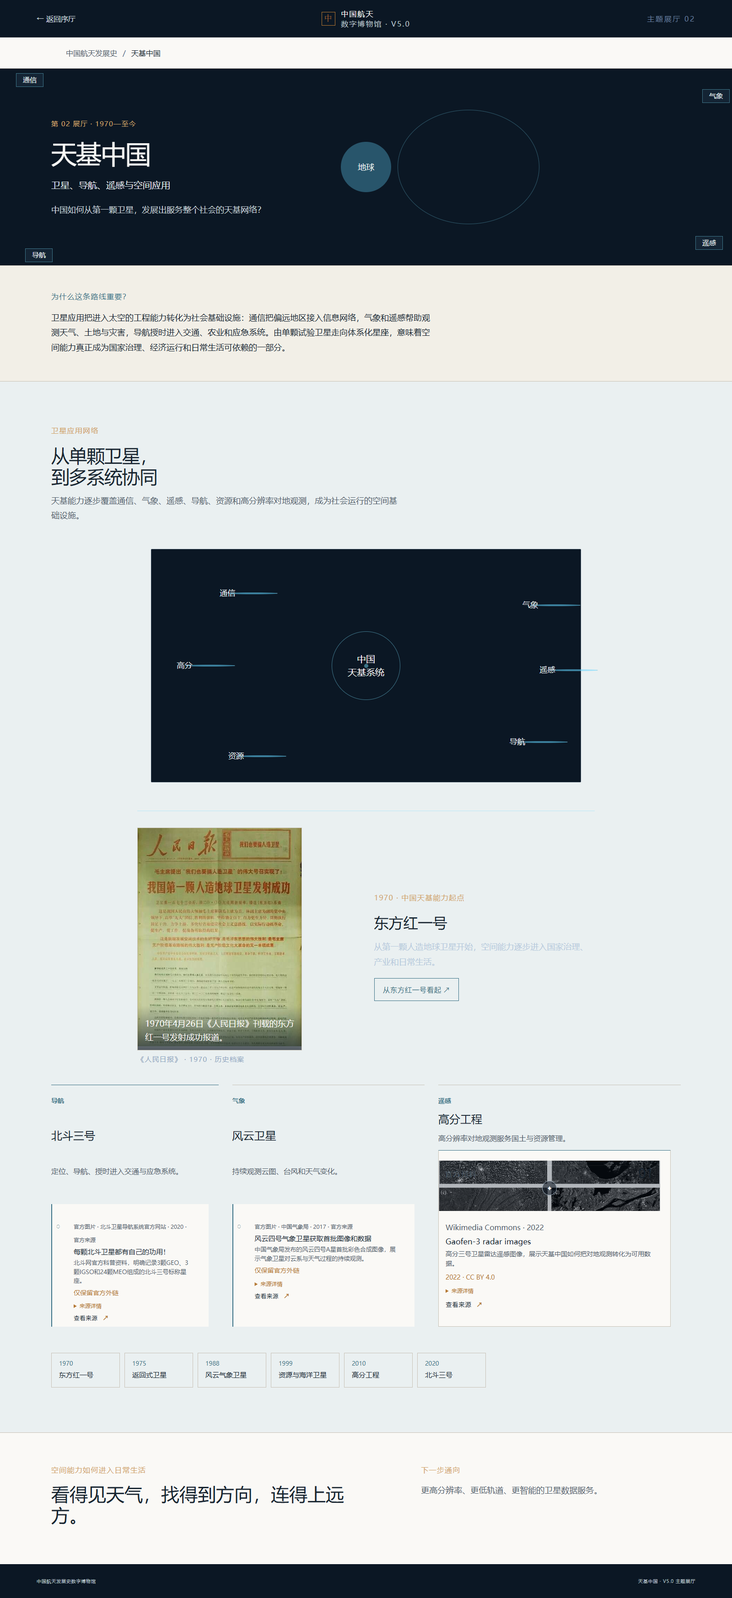
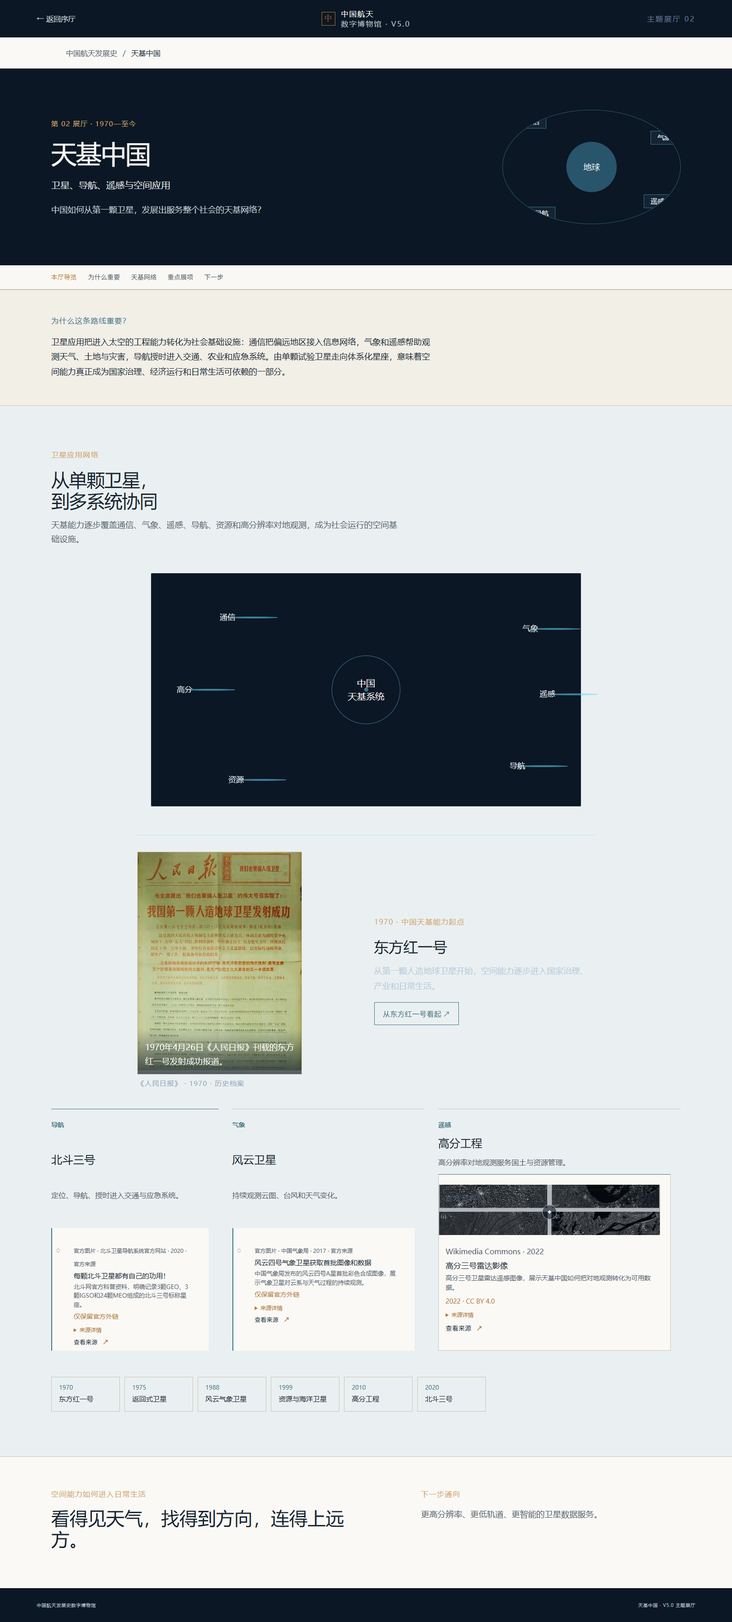
V5.0-E4.1：修复展厅视觉缺陷与媒体布局

diff --git a/src/components/GrandHallStories/LaunchCapabilityStory.jsx b/src/components/GrandHallStories/LaunchCapabilityStory.jsx
@@ -1,6 +1,7 @@
 import { useState } from 'react'
 import RocketGallery from '../RocketGallery/RocketGallery'
 import StoryMedia from '../StoryMedia/StoryMedia'
+import StoryTour from './StoryTour'
 import rockets from '../../data/rockets.json'
 
 const featuredRockets = ['长征一号', '长征二号F', '长征三号B', '长征五号', '长征七号', '长征十号']
@@ -10,10 +11,11 @@ export default function LaunchCapabilityStory({ hall, nodes }) {
   const selected = featuredRockets.map((name) => rockets.find((rocket) => rocket.name === name)).filter(Boolean)
   return (
     <div className="story-page story-page--launch">
-      <header className="story-hero story-hero--launch"><div><span className="section-kicker">第 {hall.index} 展厅 · {hall.period}</span><h1>{hall.name}</h1><p className="story-subtitle">{hall.subtitle}</p><p className="story-question">中国怎样一步步获得把更大航天器送到更远轨道的能力？</p></div><div className="story-hero-visual launch-hero-visual" aria-label="火箭高度与上升示意"><i /><b>高度</b><span>近地轨道</span><em>深空任务</em></div></header>
-      <section className="story-why"><span className="section-kicker">为什么这条路线重要？</span><p>{hall.hallWhyItMatters}</p></section>
-      <section className="grand-story grand-story--launch"><div className="story-heading"><span className="section-kicker">运力阶梯</span><h2>从“能送上去”<br />到“能送得更大、更远”</h2><p>火箭高度和运力不只是参数变化，它们直接打开了卫星、空间站、月球与火星任务的边界。</p></div><div className="launch-ladder">{selected.map((rocket, index) => <article className={`launch-step launch-step-${index + 1}`} key={rocket.name}><span>{String(index + 1).padStart(2, '0')} · {rocket.firstFlight}</span><div className="rocket-silhouette" style={{ '--rocket-height': `${Math.max(44, Math.min(175, Number.parseFloat(rocket.height) * 1.8))}px` }} aria-hidden="true" /><h3>{rocket.name}</h3><small>高度 {rocket.height}</small>{rocket.name === '长征五号' ? <><StoryMedia ids={['open-long-march-5-rollout-2021']} mode="feature" color={hall.color} /><small className="story-media-caption">大型运力在文昌形成稳定的深空发射入口。</small></> : null}{rocket.name === '长征二号F' ? <><StoryMedia ids={['media-human-shenzhou5-flight-review']} mode="inline" color={hall.color} /><small className="story-media-caption">载人火箭还必须满足逃逸、安全与高可靠要求。</small></> : null}<div className="payload-bar" style={{ '--payload-width': `${22 + index * 15}%` }} /><p>{rocket.payload}</p><small>{rocket.missions.join(' · ')}</small></article>)}</div><div className="story-node-strip">{nodes.filter((node) => ['长征一号', '长征二号系列', '长征三号系列', '长征五号与文昌', '长征七号', '新一代运载火箭'].includes(node.name)).map((node) => <span className={`story-node story-node--${node.status}`} key={node.id}><b>{node.year}</b>{node.name}<em>{node.status === 'planned' ? '规划中' : '已完成'}</em></span>)}</div></section>
-      <section className="story-tail story-tail--launch"><div><span className="section-kicker">本线已经建立的能力</span><h2>可靠进入不同轨道</h2><p>多级火箭、绿色推进剂、载人高可靠和重型运力，构成持续拓展任务边界的基础。</p></div><div className="story-tail-link"><span className="section-kicker">下一步通向</span><h2>载人登月与更远深空</h2><button type="button" onClick={() => setShowFullGallery((value) => !value)}>{showFullGallery ? '收起完整火箭谱系' : '查看完整长征火箭谱系'} ↗</button></div></section>
+      <header className="story-hero story-hero--launch" id="story-overview"><div className="story-hero-copy title-safe-area"><span className="section-kicker">第 {hall.index} 展厅 · {hall.period}</span><h1>{hall.name}</h1><p className="story-subtitle">{hall.subtitle}</p><p className="story-question">中国怎样一步步获得把更大航天器送到更远轨道的能力？</p></div><div className="story-hero-visual launch-hero-visual" aria-label="火箭高度与上升示意"><i /><b>高度</b><span>近地轨道</span><em>深空任务</em></div></header>
+      <StoryTour items={[{ id: 'story-why', label: '为什么重要' }, { id: 'launch-core', label: '运力阶梯' }, { id: 'launch-evidence', label: '重点展项' }, { id: 'story-next', label: '下一步' }]} />
+      <section className="story-why" id="story-why"><span className="section-kicker">为什么这条路线重要？</span><p>{hall.hallWhyItMatters}</p></section>
+      <section className="grand-story grand-story--launch" id="launch-core"><div className="story-heading"><span className="section-kicker">运力阶梯</span><h2>从“能送上去”<br />到“能送得更大、更远”</h2><p>火箭高度和运力不只是参数变化，它们直接打开了卫星、空间站、月球与火星任务的边界。</p></div><div className="launch-ladder">{selected.map((rocket, index) => <article className={`launch-step launch-step-${index + 1}`} key={rocket.name}><span>{String(index + 1).padStart(2, '0')} · {rocket.firstFlight}</span><div className="rocket-silhouette" style={{ '--rocket-height': `${Math.max(44, Math.min(175, Number.parseFloat(rocket.height) * 1.8))}px` }} aria-hidden="true" /><h3>{rocket.name}</h3><small>高度 {rocket.height}</small><div className="payload-bar" style={{ '--payload-width': `${22 + index * 15}%` }} /><p>{rocket.payload}</p><small>{rocket.missions.join(' · ')}</small></article>)}</div><div className="launch-support-media" id="launch-evidence"><div className="launch-support-copy"><span className="section-kicker">重点展项 · 长征五号</span><h3>从转运现场，看见大推力时代</h3><p>连续的火箭谱系回答“能否进入空间”，长征五号进一步回答“能否把更大的任务送往月球与行星际空间”。</p><StoryMedia ids={['open-long-march-5-rollout-2021']} mode="feature" color={hall.color} /></div><div className="launch-support-copy launch-support-copy--compact"><span className="section-kicker">配套资料 · 长征二号 F</span><h3>载人运输需要更高可靠</h3><p>载人火箭在运力之外，还必须满足逃逸、安全与高可靠要求。</p><StoryMedia ids={['media-human-shenzhou5-flight-review']} mode="compact" color={hall.color} /></div></div><div className="story-node-strip">{nodes.filter((node) => ['长征一号', '长征二号系列', '长征三号系列', '长征五号与文昌', '长征七号', '新一代运载火箭'].includes(node.name)).map((node) => <span className={`story-node story-node--${node.status}`} key={node.id}><b>{node.year}</b>{node.name}<em>{node.status === 'planned' ? '规划中' : '已完成'}</em></span>)}</div></section>
+      <section className="story-tail story-tail--launch" id="story-next"><div><span className="section-kicker">本线已经建立的能力</span><h2>可靠进入不同轨道</h2><p>多级火箭、绿色推进剂、载人高可靠和重型运力，构成持续拓展任务边界的基础。</p></div><div className="story-tail-link"><span className="section-kicker">下一步通向</span><h2>载人登月与更远深空</h2><button type="button" onClick={() => setShowFullGallery((value) => !value)}>{showFullGallery ? '收起完整火箭谱系' : '查看完整长征火箭谱系'} ↗</button></div></section>
       {showFullGallery ? <div className="story-gallery-drawer"><RocketGallery /></div> : null}
     </div>
   )

diff --git a/src/components/GrandHallStories/PlanetaryScaleStory.jsx b/src/components/GrandHallStories/PlanetaryScaleStory.jsx
@@ -1,15 +1,17 @@
 import AssetMedia from '../AssetMedia/AssetMedia'
 import StoryMedia from '../StoryMedia/StoryMedia'
+import StoryTour from './StoryTour'
 import { getAssetById } from '../../utils/assetRegistry'
 
 export default function PlanetaryScaleStory({ hall, nodes, missions, onOpenMission }) {
   const mission = missions.find((item) => item.id === 'tianwen')
   return (
     <div className="story-page story-page--planetary">
-      <header className="story-hero story-hero--planetary"><div><span className="section-kicker">第 {hall.index} 展厅 · {hall.period}</span><h1>{hall.name}</h1><p className="story-subtitle">{hall.subtitle}</p><p className="story-question">中国如何从地月空间，第一次跨入真正的行星际探测？</p></div><div className="planetary-hero-visual" aria-label="地球到火星的尺度示意"><i /><span>地球</span><b>火星</b></div></header>
-      <section className="story-why"><span className="section-kicker">为什么这条路线重要？</span><p>{hall.hallWhyItMatters}</p></section>
-      <section className="grand-story grand-story--planetary"><div className="story-heading"><span className="section-kicker">行星际尺度</span><h2>离开地球，穿越<br />七个月级的行星际飞行</h2><p>这是一条概念尺度示意，非真实比例：距离拉远，通信时延增加，任务需要更多自主导航和环境判断。</p></div><div className="planetary-distance" aria-label="从地球到火星的概念距离示意"><div className="distance-earth"><i />地球</div><div className="distance-moon"><span />月球轨道</div><div className="distance-flight"><b>约七个月级</b><small>地火转移 · 中途修正 · 深空测控</small></div><div className="distance-mars"><i />火星</div><div className="distance-beyond">更远深空</div></div><div className="planetary-anchor-grid"><article><div><AssetMedia asset={getAssetById('curated-tianwen-206aa3f3bc23')} label="天问一号与火星合影" /><small className="story-media-meta">维基共享资源 / 中国国家航天局供图 · 2021 · 真实任务影像</small></div><div><span>绕 · 火星捕获</span><h3>天问一号</h3><p>完成从地火转移到火星环绕的深空导航。</p><StoryMedia ids={['open-tianwen1-launch-2020']} mode="feature" color={hall.color} /></div></article><article><div><AssetMedia asset={getAssetById('curated-tianwen-16526f52a3ea')} label="祝融号与着陆平台" /><small className="story-media-meta">公开任务影像 · 2021 · 火星表面影像</small></div><div><span>落 · 巡 · 火星表面工作</span><h3>祝融号</h3><p>在乌托邦平原着陆并开展巡视探测。</p><StoryMedia ids={['media-planetary-tianwen-landing-series']} mode="inline" color={hall.color} /><StoryMedia ids={['media-zhurong-motion']} mode="inline" color={hall.color} /></div></article></div>{mission ? <button className="story-mission-link" type="button" onClick={() => onOpenMission(mission.id)}>进入天问一号任务现场 ↗</button> : null}<div className="planetary-future">{nodes.filter((node) => node.status === 'planned').map((node) => <span className="story-node story-node--planned" key={node.id}><b>{node.year}</b>{node.name}<em>规划中</em></span>)}</div></section>
-      <section className="story-tail story-tail--planetary"><div><span className="section-kicker">本线已经建立的能力</span><h2>一次任务完成绕、落、巡</h2></div><div><span className="section-kicker">下一站在哪里</span><p>小行星、火星采样返回，以及更远的太阳系。</p></div></section>
+      <header className="story-hero story-hero--planetary" id="story-overview"><div className="story-hero-copy title-safe-area"><span className="section-kicker">第 {hall.index} 展厅 · {hall.period}</span><h1>{hall.name}</h1><p className="story-subtitle">{hall.subtitle}</p><p className="story-question">中国如何从地月空间，第一次跨入真正的行星际探测？</p></div><div className="story-hero-visual planetary-hero-visual" aria-label="地球到火星的尺度示意"><i /><span>地球</span><b>火星</b></div></header>
+      <StoryTour items={[{ id: 'story-why', label: '为什么重要' }, { id: 'planetary-core', label: '行星际尺度' }, { id: 'planetary-evidence', label: '绕 · 落 · 巡' }, { id: 'story-next', label: '下一步' }]} />
+      <section className="story-why" id="story-why"><span className="section-kicker">为什么这条路线重要？</span><p>{hall.hallWhyItMatters}</p></section>
+      <section className="grand-story grand-story--planetary" id="planetary-core"><div className="story-heading"><span className="section-kicker">行星际尺度</span><h2>离开地球，穿越<br />七个月级的行星际飞行</h2><p>这是一条概念尺度示意，非真实比例：距离拉远，通信时延增加，任务需要更多自主导航和环境判断。</p></div><div className="planetary-distance" aria-label="从地球到火星的概念距离示意"><div className="distance-earth"><i />地球</div><div className="distance-moon"><span />月球轨道</div><div className="distance-flight"><b>约七个月级</b><small>地火转移 · 中途修正 · 深空测控</small></div><div className="distance-mars"><i />火星</div><div className="distance-beyond">更远深空</div></div><div className="planetary-anchor-grid" id="planetary-evidence"><article><div><AssetMedia asset={getAssetById('curated-tianwen-206aa3f3bc23')} label="天问一号与火星合影" /><small className="story-media-meta">维基共享资源 / 中国国家航天局供图 · 2021 · 真实任务影像</small></div><div><span>绕 · 火星捕获</span><h3>天问一号</h3><p>完成从地火转移到火星环绕的深空导航。</p><StoryMedia ids={['open-tianwen1-launch-2020']} mode="feature" color={hall.color} /></div></article><article><div><AssetMedia asset={getAssetById('curated-tianwen-16526f52a3ea')} label="祝融号与着陆平台" /><small className="story-media-meta">公开任务影像 · 2021 · 火星表面影像</small></div><div><span>落 · 巡 · 火星表面工作</span><h3>祝融号</h3><p>在乌托邦平原着陆并开展巡视探测。</p><StoryMedia ids={['media-planetary-tianwen-landing-series']} mode="inline" color={hall.color} /><StoryMedia ids={['media-zhurong-motion']} mode="inline" color={hall.color} /></div></article></div>{mission ? <button className="story-mission-link" type="button" onClick={() => onOpenMission(mission.id)}>进入天问一号任务现场 ↗</button> : null}<div className="planetary-future">{nodes.filter((node) => node.status === 'planned').map((node) => <span className="story-node story-node--planned" key={node.id}><b>{node.year}</b>{node.name}<em>规划中</em></span>)}</div></section>
+      <section className="story-tail story-tail--planetary" id="story-next"><div><span className="section-kicker">本线已经建立的能力</span><h2>一次任务完成绕、落、巡</h2></div><div><span className="section-kicker">下一站在哪里</span><p>小行星、火星采样返回，以及更远的太阳系。</p></div></section>
     </div>
   )
 }

diff --git a/src/components/GrandHallStories/HumanSpaceflightStory.jsx b/src/components/GrandHallStories/HumanSpaceflightStory.jsx
@@ -1,5 +1,6 @@
 import AssetMedia from '../AssetMedia/AssetMedia'
 import StoryMedia from '../StoryMedia/StoryMedia'
+import StoryTour from './StoryTour'
 import { getAssetById } from '../../utils/assetRegistry'
 
 export default function HumanSpaceflightStory({ hall, nodes, missions, onOpenMission }) {
@@ -7,17 +8,18 @@ export default function HumanSpaceflightStory({ hall, nodes, missions, onOpenMis
   const station = missions.find((mission) => mission.id === 'tiangong')
   return (
     <div className="story-page story-page--human">
-      <header className="story-hero story-hero--human">
-        <div><span className="section-kicker">第 {hall.index} 展厅 · {hall.period}</span><h1>{hall.name}</h1><p className="story-subtitle">{hall.subtitle}</p><p className="story-question">中国如何从无人验证，走到长期有人驻留？</p></div>
-        <div className="human-hero-visual" aria-label="飞船与空间站对接示意"><span>飞船</span><i>对接</i><b>空间站</b></div>
+      <header className="story-hero story-hero--human" id="story-overview">
+        <div className="story-hero-copy title-safe-area"><span className="section-kicker">第 {hall.index} 展厅 · {hall.period}</span><h1>{hall.name}</h1><p className="story-subtitle">{hall.subtitle}</p><p className="story-question">中国如何从无人验证，走到长期有人驻留？</p></div>
+        <div className="story-hero-visual human-hero-visual" aria-label="飞船与空间站对接示意"><span>飞船</span><i>对接</i><b>空间站</b></div>
       </header>
-      <section className="story-why"><span className="section-kicker">为什么这条路线重要？</span><p>{hall.hallWhyItMatters}</p></section>
-      <section className="grand-story grand-story--human">
+      <StoryTour items={[{ id: 'story-why', label: '为什么重要' }, { id: 'human-core', label: '三个人的阶段' }, { id: 'human-evidence', label: '重点展项' }, { id: 'story-next', label: '下一步' }]} />
+      <section className="story-why" id="story-why"><span className="section-kicker">为什么这条路线重要？</span><p>{hall.hallWhyItMatters}</p></section>
+      <section className="grand-story grand-story--human" id="human-core">
         <div className="story-heading"><span className="section-kicker">载人航天三章</span><h2>从把人送上去，<br />到让人在轨道上工作</h2><p>载人航天的进步，体现在任务持续时间、空间活动复杂度和轨道生活能力的连续增加。</p></div>
-        <div className="human-chapters"><article><span>第一章 · 1992—2002</span><h3>无人验证</h3><p>工程立项，神舟一号至四号完成飞船、返回和系统可靠性验证。</p><b>神舟一号—四号</b></article><article className="human-chapter-feature"><div><AssetMedia asset={getAssetById('curated-shenzhou5-yang-liwei-2003')} label="杨利伟在神舟五号飞船内" /><small className="story-media-meta">中国新闻社 · 2003 · 真实任务影像</small><StoryMedia ids={['media-human-shenzhou5-flight-review']} mode="inline" color={hall.color} /></div><div><span>第二章 · 2003—2016</span><h3>人进入太空</h3><p>神舟五号首次载人，神舟七号实现出舱，天宫目标飞行器与飞船完成交会对接。</p>{shenzhou ? <button type="button" onClick={() => onOpenMission(shenzhou.id)}>进入神舟五号任务档案 ↗</button> : null}</div></article><article className="human-chapter-station"><div><AssetMedia asset={getAssetById('curated-tiangong-0e4562ea9470')} label="中国空间站完整组合体" /><small className="story-media-meta">新华社 · 2022—至今 · 真实任务影像</small></div><div><AssetMedia asset={getAssetById('collected-tiangong-754c526f7813')} label="问天实验舱舱内工作场景" /><small className="story-media-meta">公开展品资料 · 2022 · 在轨工作影像</small><StoryMedia ids={['media-human-space-station-video-hub']} mode="inline" color={hall.color} /></div><div><span>第三章 · 2021—至今</span><h3>轨道家园</h3><p>空间站支持长期生活、长期工作和长期实验。</p>{station ? <button type="button" onClick={() => onOpenMission(station.id)}>进入中国空间站任务档案 ↗</button> : null}</div></article></div>
+        <div className="human-chapters"><article><span>第一章 · 1992—2002</span><h3>无人验证</h3><p>工程立项，神舟一号至四号完成飞船、返回和系统可靠性验证。</p><b>神舟一号—四号</b></article><article className="human-chapter-feature" id="human-evidence"><div><AssetMedia asset={getAssetById('curated-shenzhou5-yang-liwei-2003')} label="杨利伟在神舟五号飞船内" /><small className="story-media-meta">中国新闻社 · 2003 · 真实任务影像</small><StoryMedia ids={['media-human-shenzhou5-flight-review']} mode="inline" color={hall.color} /></div><div><span>第二章 · 2003—2016</span><h3>人进入太空</h3><p>神舟五号首次载人，神舟七号实现出舱，天宫目标飞行器与飞船完成交会对接。</p>{shenzhou ? <button type="button" onClick={() => onOpenMission(shenzhou.id)}>进入神舟五号任务档案 ↗</button> : null}</div></article><article className="human-chapter-station"><div><AssetMedia asset={getAssetById('curated-tiangong-0e4562ea9470')} label="中国空间站完整组合体" /><small className="story-media-meta">新华社 · 2022—至今 · 真实任务影像</small></div><div><AssetMedia asset={getAssetById('collected-tiangong-754c526f7813')} label="问天实验舱舱内工作场景" /><small className="story-media-meta">公开展品资料 · 2022 · 在轨工作影像</small><StoryMedia ids={['media-human-space-station-video-hub']} mode="inline" color={hall.color} /></div><div><span>第三章 · 2021—至今</span><h3>轨道家园</h3><p>空间站支持长期生活、长期工作和长期实验。</p>{station ? <button type="button" onClick={() => onOpenMission(station.id)}>进入中国空间站任务档案 ↗</button> : null}</div></article></div>
         <div className="human-stage-strip">{nodes.filter((node) => ['神舟五号', '神舟七号', '天宫一号', '天和、问天、梦天', '长期运营'].includes(node.name)).map((node) => <span key={node.id}><b>{node.year}</b>{node.name}</span>)}</div>
       </section>
-      <section className="story-tail story-tail--human"><div><span className="section-kicker">本线已经建立的能力</span><h2>长期有人照料的轨道平台</h2></div><div><span className="section-kicker">下一步通向</span><p>从空间站走向载人月球。</p></div></section>
+      <section className="story-tail story-tail--human" id="story-next"><div><span className="section-kicker">本线已经建立的能力</span><h2>长期有人照料的轨道平台</h2></div><div><span className="section-kicker">下一步通向</span><p>从空间站走向载人月球。</p></div></section>
     </div>
   )
 }

diff --git a/src/components/GrandHallStories/LunarExplorationStory.jsx b/src/components/GrandHallStories/LunarExplorationStory.jsx
@@ -1,5 +1,6 @@
 import AssetMedia from '../AssetMedia/AssetMedia'
 import StoryMedia from '../StoryMedia/StoryMedia'
+import StoryTour from './StoryTour'
 import { getAssetById } from '../../utils/assetRegistry'
 
 const stages = [['绕', '嫦娥一号', '2007', '进入绕月轨道', null], ['落', '嫦娥三号', '2013', '月面软着陆与巡视', null], ['回', '嫦娥五号', '2020', '月球采样返回', 'media-lunar-change5-launch-live']]
@@ -8,10 +9,11 @@ export default function LunarExplorationStory({ hall, nodes, missions, onOpenMis
   const mission = missions.find((item) => item.id === 'chang-e')
   return (
     <div className="story-page story-page--lunar">
-      <header className="story-hero story-hero--lunar"><div><span className="section-kicker">第 {hall.index} 展厅 · {hall.period}</span><h1>{hall.name}</h1><p className="story-subtitle">{hall.subtitle}</p><p className="story-question">中国怎样一步一步掌握月球探测能力？</p></div><div className="lunar-hero-visual" aria-label="地球与月球示意"><i>地球</i><span /><b>月球</b></div></header>
-      <section className="story-why"><span className="section-kicker">为什么这条路线重要？</span><p>{hall.hallWhyItMatters}</p></section>
-      <section className="grand-story grand-story--lunar"><div className="story-heading"><span className="section-kicker">主能力路线</span><h2>绕 → 落 → 回，<br />月背从侧面突破</h2><p>月球探测不是四个并列目标，而是一条逐步增加难度的能力链；月背探测则在中继通信和自主控制上打开新的侧支。</p></div><div className="lunar-main-route">{stages.map(([stage, title, year, description, mediaId]) => <article key={stage}><b>{stage}</b><span /><time>{year}</time><h3>{title}</h3><p>{description}</p>{mediaId ? <StoryMedia ids={[mediaId]} mode="inline" color={hall.color} /> : null}</article>)}<div className="lunar-side-branch"><span>月背突破</span><strong>嫦娥四号 · 首次月背软着陆</strong><StoryMedia ids={['media-lunar-change6-sample-process']} mode="inline" color={hall.color} /><strong>嫦娥六号 · 首次月背采样返回</strong></div></div><div className="lunar-images"><div><AssetMedia asset={getAssetById('collected-chang-e-350bd2395f82')} label="嫦娥四号月球背面全景影像" /><small className="story-media-meta">公开任务影像 · 2019 · 月背全景</small></div><div><AssetMedia asset={getAssetById('asset-change-6')} label="嫦娥六号月背采样任务现场" /><small className="story-media-meta">中国国家航天局 · 2024 · 真实任务影像</small></div></div><div className="lunar-future-path"><span>2024</span><b>嫦娥六号</b><i /><span>未来</span><strong>嫦娥七号 · 嫦娥八号 · 国际月球科研站</strong></div>{mission ? <button className="story-mission-link" type="button" onClick={() => onOpenMission(mission.id)}>进入嫦娥任务档案 ↗</button> : null}<div className="story-node-strip">{nodes.filter((node) => ['嫦娥一号', '嫦娥三号', '嫦娥四号', '嫦娥五号', '嫦娥六号'].includes(node.name)).map((node) => <span className="story-node" key={node.id}><b>{node.year}</b>{node.name}</span>)}</div></section>
-      <section className="story-tail story-tail--lunar"><div><span className="section-kicker">本线已经建立的能力</span><h2>从月球探测到月球科研站</h2></div><div><span className="section-kicker">下一步通向</span><p>持续探测月球南极，并为载人登月积累能力。</p></div></section>
+      <header className="story-hero story-hero--lunar" id="story-overview"><div className="story-hero-copy title-safe-area"><span className="section-kicker">第 {hall.index} 展厅 · {hall.period}</span><h1>{hall.name}</h1><p className="story-subtitle">{hall.subtitle}</p><p className="story-question">中国怎样一步一步掌握月球探测能力？</p></div><div className="story-hero-visual lunar-hero-visual" aria-label="地球与月球示意"><i>地球</i><span /><b>月球</b></div></header>
+      <StoryTour items={[{ id: 'story-why', label: '为什么重要' }, { id: 'lunar-core', label: '绕 · 落 · 回' }, { id: 'lunar-evidence', label: '月背与返回' }, { id: 'story-next', label: '下一步' }]} />
+      <section className="story-why" id="story-why"><span className="section-kicker">为什么这条路线重要？</span><p>{hall.hallWhyItMatters}</p></section>
+      <section className="grand-story grand-story--lunar" id="lunar-core"><div className="story-heading"><span className="section-kicker">主能力路线</span><h2>绕 → 落 → 回，<br />月背从侧面突破</h2><p>月球探测不是四个并列目标，而是一条逐步增加难度的能力链；月背探测则在中继通信和自主控制上打开新的侧支。</p></div><div className="lunar-main-route">{stages.map(([stage, title, year, description, mediaId]) => <article key={stage}><b>{stage}</b><span /><time>{year}</time><h3>{title}</h3><p>{description}</p>{mediaId ? <StoryMedia ids={[mediaId]} mode="inline" color={hall.color} /> : null}</article>)}<div className="lunar-side-branch" id="lunar-evidence"><span>月背突破</span><strong>嫦娥四号 · 首次月背软着陆</strong><StoryMedia ids={['media-lunar-change6-sample-process']} mode="inline" color={hall.color} /><strong>嫦娥六号 · 首次月背采样返回</strong></div></div><div className="lunar-images"><div><AssetMedia asset={getAssetById('collected-chang-e-350bd2395f82')} label="嫦娥四号月球背面全景影像" /><small className="story-media-meta">公开任务影像 · 2019 · 月背全景</small></div><div><AssetMedia asset={getAssetById('asset-change-6')} label="嫦娥六号月背采样任务现场" /><small className="story-media-meta">中国国家航天局 · 2024 · 真实任务影像</small></div></div><div className="lunar-future-path"><span>2024</span><b>嫦娥六号</b><i /><span>未来</span><strong>嫦娥七号 · 嫦娥八号 · 国际月球科研站</strong></div>{mission ? <button className="story-mission-link" type="button" onClick={() => onOpenMission(mission.id)}>进入嫦娥任务档案 ↗</button> : null}<div className="story-node-strip">{nodes.filter((node) => ['嫦娥一号', '嫦娥三号', '嫦娥四号', '嫦娥五号', '嫦娥六号'].includes(node.name)).map((node) => <span className="story-node" key={node.id}><b>{node.year}</b>{node.name}</span>)}</div></section>
+      <section className="story-tail story-tail--lunar" id="story-next"><div><span className="section-kicker">本线已经建立的能力</span><h2>从月球探测到月球科研站</h2></div><div><span className="section-kicker">下一步通向</span><p>持续探测月球南极，并为载人登月积累能力。</p></div></section>
     </div>
   )
 }

diff --git a/src/components/GrandHallStories/SatelliteNetworkStory.jsx b/src/components/GrandHallStories/SatelliteNetworkStory.jsx
@@ -1,5 +1,6 @@
 import AssetMedia from '../AssetMedia/AssetMedia'
 import StoryMedia from '../StoryMedia/StoryMedia'
+import StoryTour from './StoryTour'
 import { getAssetById } from '../../utils/assetRegistry'
 
 const applications = ['通信', '气象', '遥感', '导航', '资源', '高分']
@@ -8,19 +9,20 @@ export default function SatelliteNetworkStory({ hall, nodes, missions, onOpenMis
   const origin = missions.find((mission) => mission.id === 'origin-one')
   return (
     <div className="story-page story-page--satellite">
-      <header className="story-hero story-hero--satellite">
-        <div><span className="section-kicker">第 {hall.index} 展厅 · {hall.period}</span><h1>{hall.name}</h1><p className="story-subtitle">{hall.subtitle}</p><p className="story-question">中国如何从第一颗卫星，发展出服务整个社会的天基网络？</p></div>
-        <div className="satellite-hero-visual" aria-label="地球与卫星网络示意"><i>地球</i>{applications.slice(0, 4).map((application, index) => <span key={application} className={`satellite-hero-node satellite-hero-node-${index + 1}`}>{application}</span>)}</div>
+      <header className="story-hero story-hero--satellite" id="story-overview">
+        <div className="story-hero-copy title-safe-area"><span className="section-kicker">第 {hall.index} 展厅 · {hall.period}</span><h1>{hall.name}</h1><p className="story-subtitle">{hall.subtitle}</p><p className="story-question">中国如何从第一颗卫星，发展出服务整个社会的天基网络？</p></div>
+        <div className="story-hero-visual satellite-hero-visual" aria-label="地球与卫星网络示意"><i>地球</i>{applications.slice(0, 4).map((application, index) => <span key={application} className={`satellite-hero-node satellite-hero-node-${index + 1}`}>{application}</span>)}</div>
       </header>
-      <section className="story-why"><span className="section-kicker">为什么这条路线重要？</span><p>{hall.hallWhyItMatters}</p></section>
-      <section className="grand-story grand-story--satellite">
+      <StoryTour items={[{ id: 'story-why', label: '为什么重要' }, { id: 'satellite-core', label: '天基网络' }, { id: 'satellite-evidence', label: '重点展项' }, { id: 'story-next', label: '下一步' }]} />
+      <section className="story-why" id="story-why"><span className="section-kicker">为什么这条路线重要？</span><p>{hall.hallWhyItMatters}</p></section>
+      <section className="grand-story grand-story--satellite" id="satellite-core">
         <div className="story-heading"><span className="section-kicker">卫星应用网络</span><h2>从单颗卫星，<br />到多系统协同</h2><p>天基能力逐步覆盖通信、气象、遥感、导航、资源和高分辨率对地观测，成为社会运行的空间基础设施。</p></div>
         <div className="satellite-network"><div className="satellite-core"><span>中国<br />天基系统</span><i /></div>{applications.map((application, index) => <div className={`satellite-orbit satellite-orbit-${index + 1}`} key={application}><span className="satellite-link" /><b>{application}</b></div>)}</div>
         <div className="satellite-origin-card"><div><AssetMedia asset={getAssetById('curated-dongfanghong-1-news-1970')} label="东方红一号历史报道" /><small className="story-media-meta">《人民日报》 · 1970 · 历史档案</small></div><div><span className="section-kicker">1970 · 中国天基能力起点</span><h3>东方红一号</h3><p>从第一颗人造地球卫星开始，空间能力逐步进入国家治理、产业和日常生活。</p>{origin ? <button type="button" onClick={() => onOpenMission(origin.id)}>从东方红一号看起 ↗</button> : null}</div></div>
-        <div className="satellite-evidence-grid"><article><b>导航</b><strong>北斗三号</strong><span>定位、导航、授时进入交通与应急系统。</span><StoryMedia ids={['official-beidou-3-constellation-2020']} mode="compact" color={hall.color} /></article><article><b>气象</b><strong>风云卫星</strong><span>持续观测云图、台风和天气变化。</span><StoryMedia ids={['official-fy4a-cloud-image-2017']} mode="compact" color={hall.color} /></article><article><b>遥感</b><strong>高分工程</strong><span>高分辨率对地观测服务国土与资源管理。</span><StoryMedia ids={['open-gaofen-3-radar-images-2022']} mode="feature" color={hall.color} /></article></div>
+        <div className="satellite-evidence-grid" id="satellite-evidence"><article><b>导航</b><strong>北斗三号</strong><span>定位、导航、授时进入交通与应急系统。</span><StoryMedia ids={['official-beidou-3-constellation-2020']} mode="compact" color={hall.color} /></article><article><b>气象</b><strong>风云卫星</strong><span>持续观测云图、台风和天气变化。</span><StoryMedia ids={['official-fy4a-cloud-image-2017']} mode="compact" color={hall.color} /></article><article><b>遥感</b><strong>高分工程</strong><span>高分辨率对地观测服务国土与资源管理。</span><StoryMedia ids={['open-gaofen-3-radar-images-2022']} mode="feature" color={hall.color} /></article></div>
         <div className="story-node-strip">{nodes.filter((node) => ['东方红一号', '返回式卫星', '风云气象卫星', '资源与海洋卫星', '高分工程', '北斗三号'].includes(node.name)).map((node) => <span className="story-node" key={node.id}><b>{node.year}</b>{node.name}</span>)}</div>
       </section>
-      <section className="story-tail story-tail--satellite"><div><span className="section-kicker">空间能力如何进入日常生活</span><h2>看得见天气，找得到方向，连得上远方。</h2></div><div><span className="section-kicker">下一步通向</span><p>更高分辨率、更低轨道、更智能的卫星数据服务。</p></div></section>
+      <section className="story-tail story-tail--satellite" id="story-next"><div><span className="section-kicker">空间能力如何进入日常生活</span><h2>看得见天气，找得到方向，连得上远方。</h2></div><div><span className="section-kicker">下一步通向</span><p>更高分辨率、更低轨道、更智能的卫星数据服务。</p></div></section>
     </div>
   )
 }

diff --git a/src/e3.css b/src/e3.css
@@ -223,6 +223,26 @@ body { font-size: 17px; line-height: 1.7; }
 .official-media-details a { color: var(--museum-bronze) !important; }
 .story-media-attribution { color: var(--museum-ink-soft) !important; }
 
+/* V5.0-E4.1：标题安全区、轻量本厅导览与媒体脱离运力阶梯。 */
+.story-hero { isolation: isolate; }
+.story-hero-copy { position: relative; z-index: 3; min-width: 0; max-width: 760px; padding-right: clamp(24px, 4vw, 72px); }
+.story-hero-copy h1 { color: var(--museum-white) !important; }
+.story-hero .story-hero-visual { position: relative; z-index: 1; overflow: hidden; margin-left: auto; }
+.story-hero .story-hero-visual > * { pointer-events: none; }
+.story-tour { position: sticky; top: 0; z-index: 8; display: flex; align-items: center; gap: 24px; min-height: 48px; padding: 0 max(7vw, calc((100vw - 1380px) / 2)); border-bottom: 1px solid var(--museum-line); background: rgba(250,249,246,.96); color: var(--museum-ink-soft); backdrop-filter: none; }
+.story-tour span { color: var(--museum-bronze); font-size: 13px; letter-spacing: .08em; white-space: nowrap; }
+.story-tour a { padding: 14px 0 12px; border-bottom: 2px solid transparent; color: var(--museum-ink-soft); font-size: 14px; text-decoration: none; white-space: nowrap; }
+.story-tour a:hover, .story-tour a:focus-visible { border-bottom-color: var(--hall-color); color: var(--museum-ink); }
+.launch-support-media { display: grid; grid-template-columns: minmax(0, 1.3fr) minmax(260px, .7fr); gap: 42px; margin-top: 46px; padding-top: 36px; border-top: 1px solid rgba(201,195,184,.28); }
+.launch-support-copy { min-width: 0; }
+.launch-support-copy h3 { margin: 9px 0 8px; color: var(--museum-white); font-size: 26px; font-weight: 500; }
+.launch-support-copy p { max-width: 620px; margin: 0; color: #C9D3D8; font-size: 16px; line-height: 1.7; }
+.launch-support-copy .story-media { margin-top: 18px; }
+.launch-support-copy .story-media .official-media-card--feature { grid-template-rows: 220px auto; }
+.launch-support-copy--compact { padding-top: 4px; }
+.launch-support-copy--compact h3 { font-size: 22px; }
+.launch-support-copy--compact .story-media .official-media-card--compact { background: rgba(250,249,246,.98); }
+
 button:focus-visible, a:focus-visible { outline-color: var(--museum-bronze); }
 @media (max-width: 1000px) {
   .satellite-evidence-grid { grid-template-columns: 1fr; gap: 0; }
@@ -243,4 +263,6 @@ button:focus-visible, a:focus-visible { outline-color: var(--museum-bronze); }
   .human-chapters>article, .human-chapter-feature, .human-chapter-station { border-left: 0; padding-left: 0 !important; }
   .human-chapters>article { min-height: 0; padding-bottom: 28px; }
   .story-media .official-media-card--feature { grid-template-rows: 150px auto; }
+  .story-tour { gap: 14px; overflow-x: auto; }
+  .launch-support-media { grid-template-columns: 1fr; gap: 28px; }
 }

diff --git a/src/components/GrandHallStories/StoryTour.jsx b/src/components/GrandHallStories/StoryTour.jsx
@@ -1,0 +1,8 @@
+export default function StoryTour({ items = [] }) {
+  return (
+    <nav className="story-tour" aria-label="本厅导览">
+      <span>本厅导览</span>
+      {items.map((item) => <a href={`#${item.id}`} key={item.id}>{item.label}</a>)}
+    </nav>
+  )
+}
